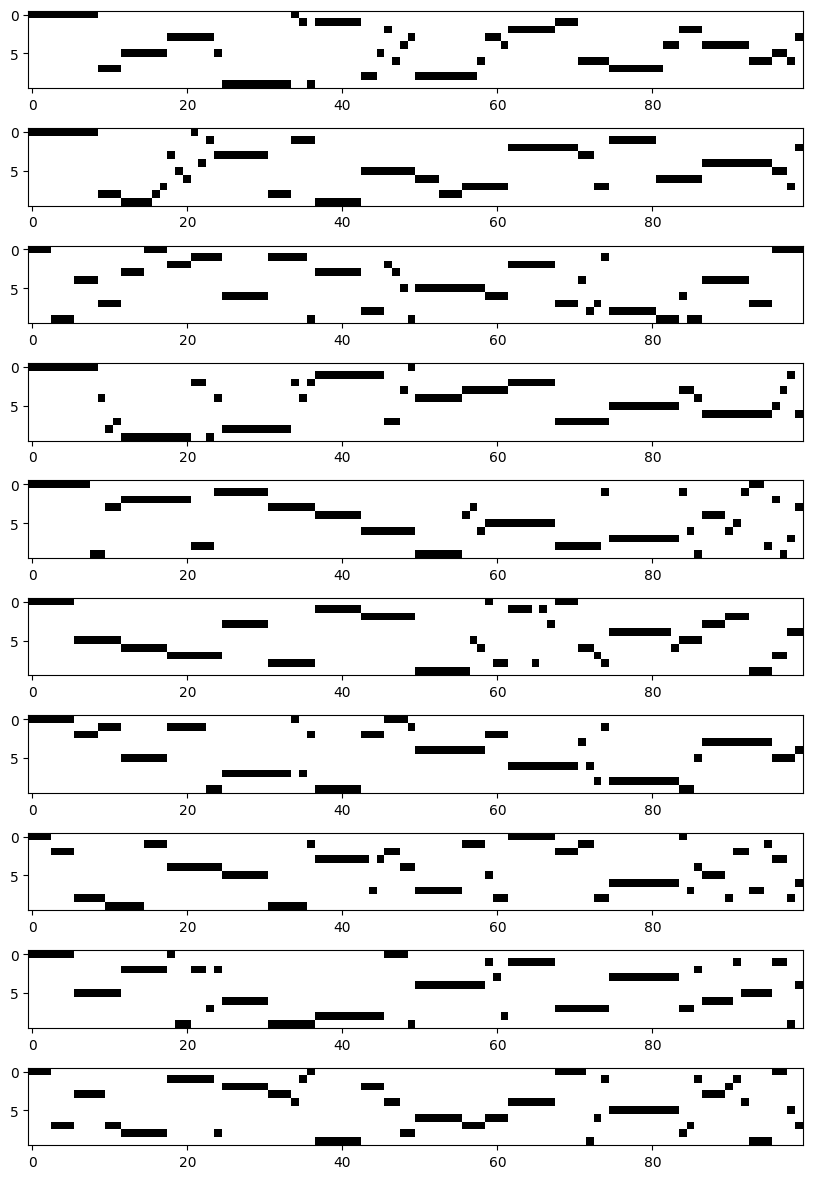
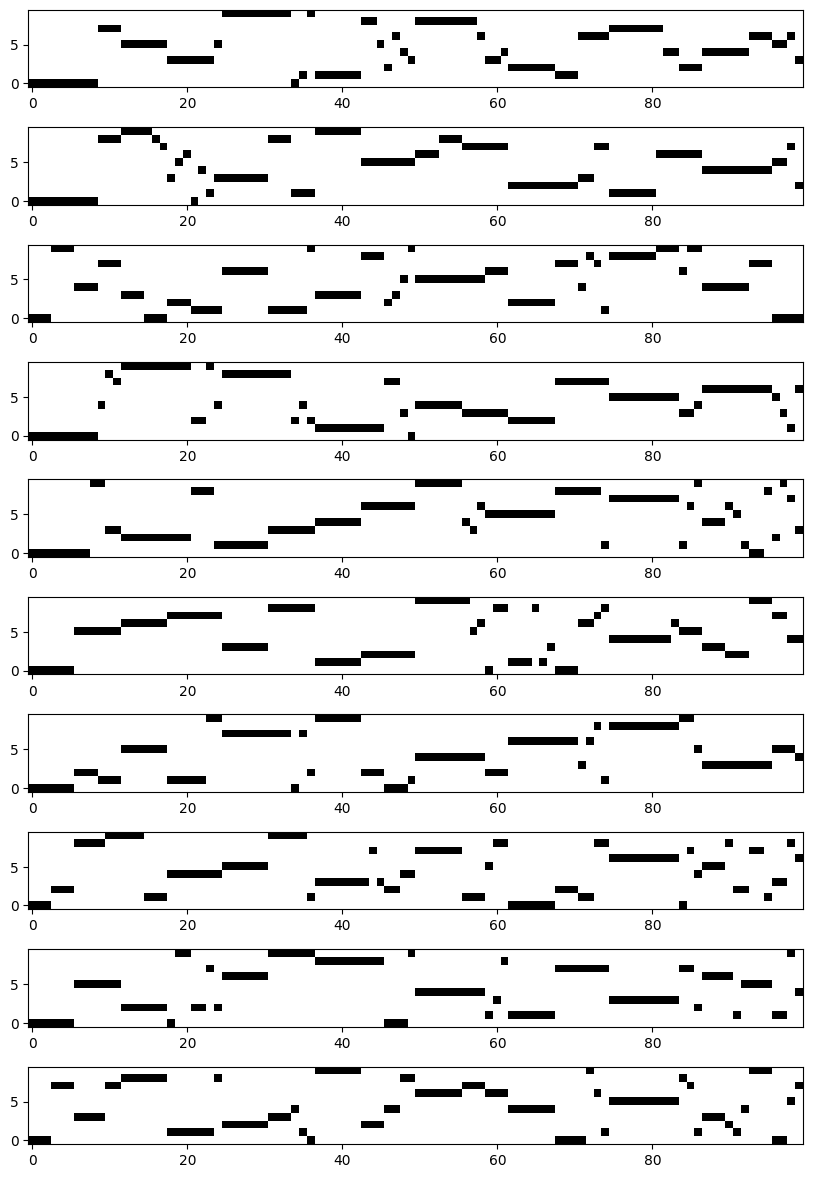
invert y axis

diff --git a/benchplot.py b/benchplot.py
@@ -105,7 +105,7 @@ def plot_scheduling_dist(scheduling_dist):
             for task_idx in tasks:
                 data[total, task_idx] = 0
             total += 1
-        ax.imshow(data, cmap='gray')
+        ax.imshow(data, cmap='gray', origin='lower')
     return fig
 
 
